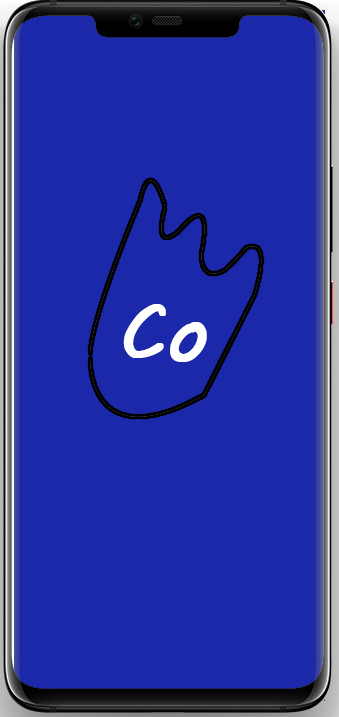
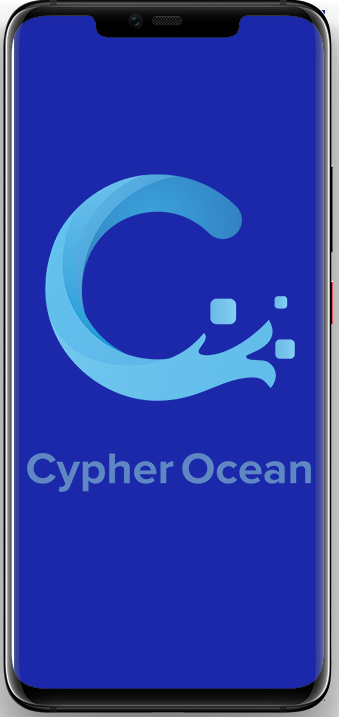
20210210 -0958

diff --git a/public/assets/css/style.css b/public/assets/css/style.css
@@ -19,7 +19,7 @@ body {
 }
 
 a {
-  color: #fff;
+  color: #000;
   transition: .3s all ease;
 }
 
@@ -358,6 +358,11 @@ section {
 
 .sticky-wrapper .site-navbar .site-logo a {
   color: #fff;
+}
+
+.site-logo img{
+  width: 252px;
+  margin-top: 2px;
 }
 
 .sticky-wrapper .site-navbar .site-menu > li > a {

diff --git a/resources/views/layout/header.blade.php b/resources/views/layout/header.blade.php
@@ -15,7 +15,7 @@
       <div class="row align-items-center">
 
         <div class="col-6 col-lg-2">
-          <h1 class="mb-0 site-logo"><a href="index.html" class="mb-0">CypherOcean</a></h1>
+          <h1 class="mb-0 site-logo"><a href="index.html" class="mb-0"><img src="{{url(asset('images/logo.png'))}}" alt=""></a></h1>
         </div>
 
         <div class="col-12 col-md-10 d-none d-lg-block">

diff --git a/resources/views/layout/styles.blade.php b/resources/views/layout/styles.blade.php
@@ -1,4 +1,4 @@
-<link href="{{ asset('assets/img/favicon.png') }}" rel="icon">
+
 <link href="{{ asset('assets/img/apple-touch-icon.png') }}" rel="apple-touch-icon">
 
 <link href="https://fonts.googleapis.com/css?family=Roboto:300,300i,400,400i,500,500i,600,600i,700,700i|Poppins:300,300i,400,400i,500,500i,600,600i,700,700i" rel="stylesheet">

diff --git a/resources/views/layout/app.blade.php b/resources/views/layout/app.blade.php
@@ -5,7 +5,7 @@
   @include('layout.meta')
 
   <title>CypherOcean - @yield('title')</title>
-  
+  <link href="{{ asset('images/fevicon.png') }}" rel="icon">
   @include('layout.styles')
 </head>
 
